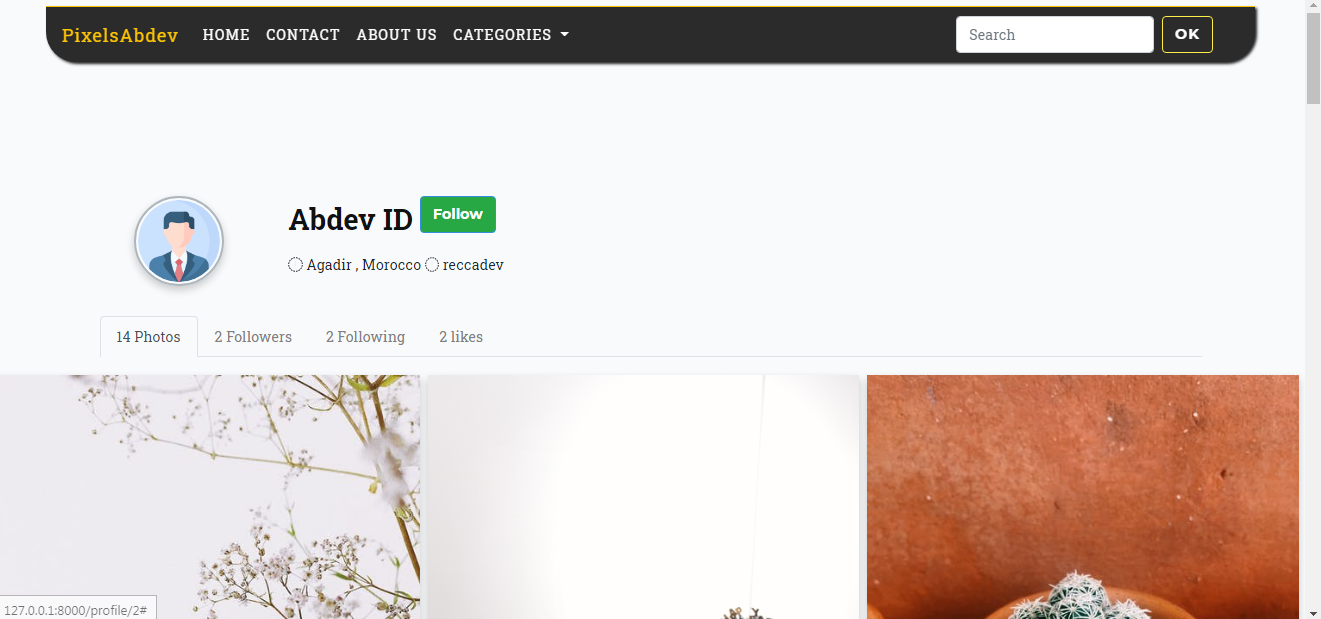
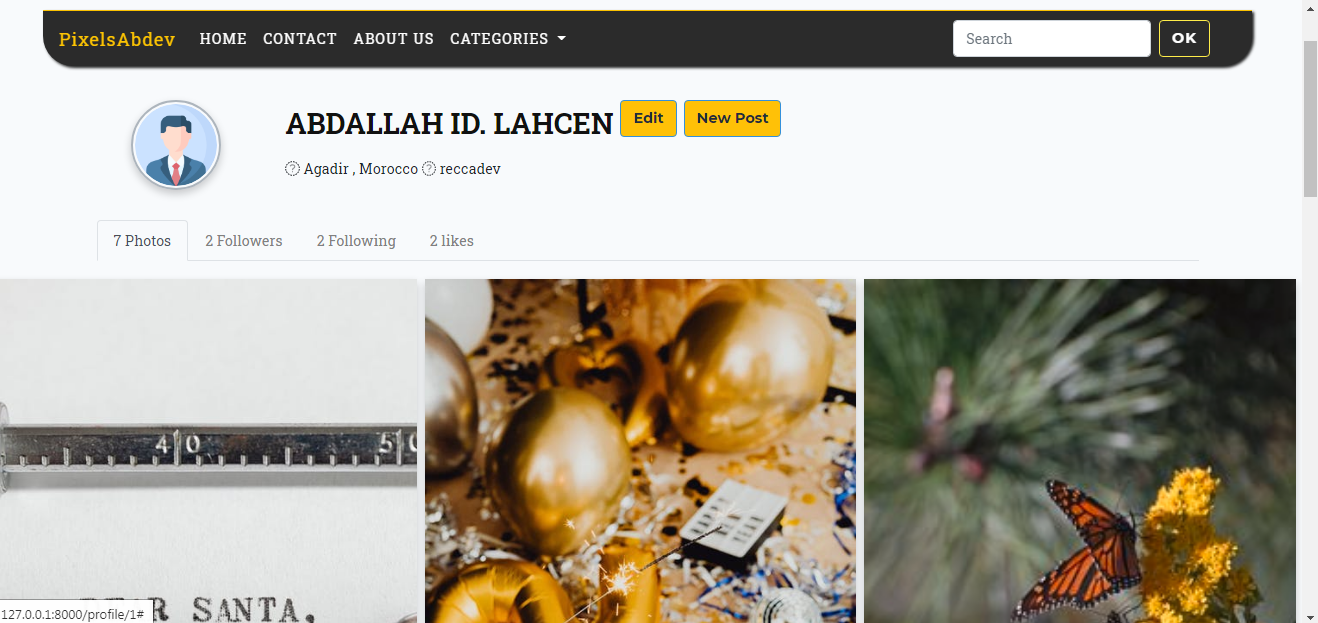
Profile UI

diff --git a/app/Http/Controllers/API/PostsController.php b/app/Http/Controllers/API/PostsController.php
@@ -17,7 +17,7 @@ class PostsController extends BaseController
      */
     public function userPosts($id)
     {        
-       return  $this->sendResponse(Post::with('user')->get() , 'Posts retrieved successfully.');
+       return  $this->sendResponse(Post::latest()->with('user')->get()->where('user_id',$id), 'Posts retrieved successfully.');
     }
     /**
      * Display a listing of the resource.
@@ -26,7 +26,7 @@ class PostsController extends BaseController
      */
     public function index()
     {
-       return  $this->sendResponse( Post::with('user')->get() , 'Posts retrieved successfully.');
+       return  $this->sendResponse( Post::latest()->with('user')->get() , 'Posts retrieved successfully.');
     }
     /**
      * Store a newly created resource in storage.

diff --git a/resources/views/profile/profile.blade.php b/resources/views/profile/profile.blade.php
@@ -60,10 +60,13 @@
                @if (Auth::User()->id!=$user->id)
                <a href="/" style="margin-bottom: 15px;" class="btn btn-primary bg-green">Follow</a>
 
-             
-                   
+               @else
+               <a href="/" style="margin-bottom: 15px;" class="btn btn-primary bg-yellow">Edit</a>
+               <a @onClick() style="margin-bottom: 15px;" class="btn btn-primary bg-yellow">New Post</a>
+ 
                @endif
-                  
+             
+              
                 <h6><i class="fas fa-location"></i> Agadir , Morocco <i class="fas fa-hd"></i> reccadev</h6>
                 
              </div>
